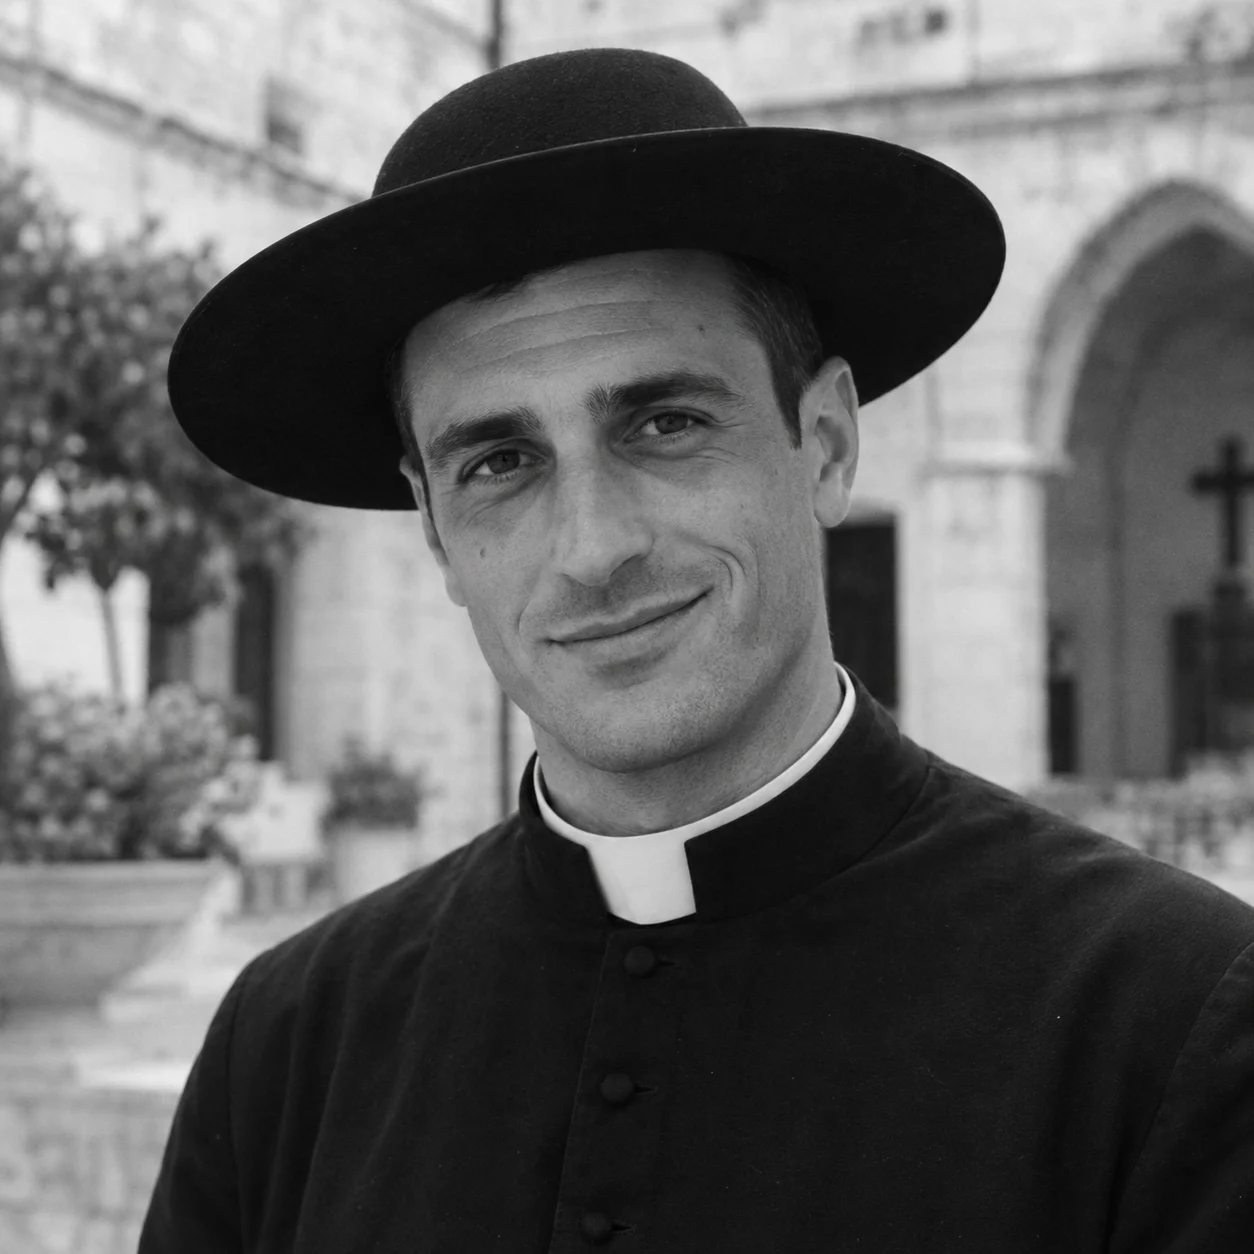
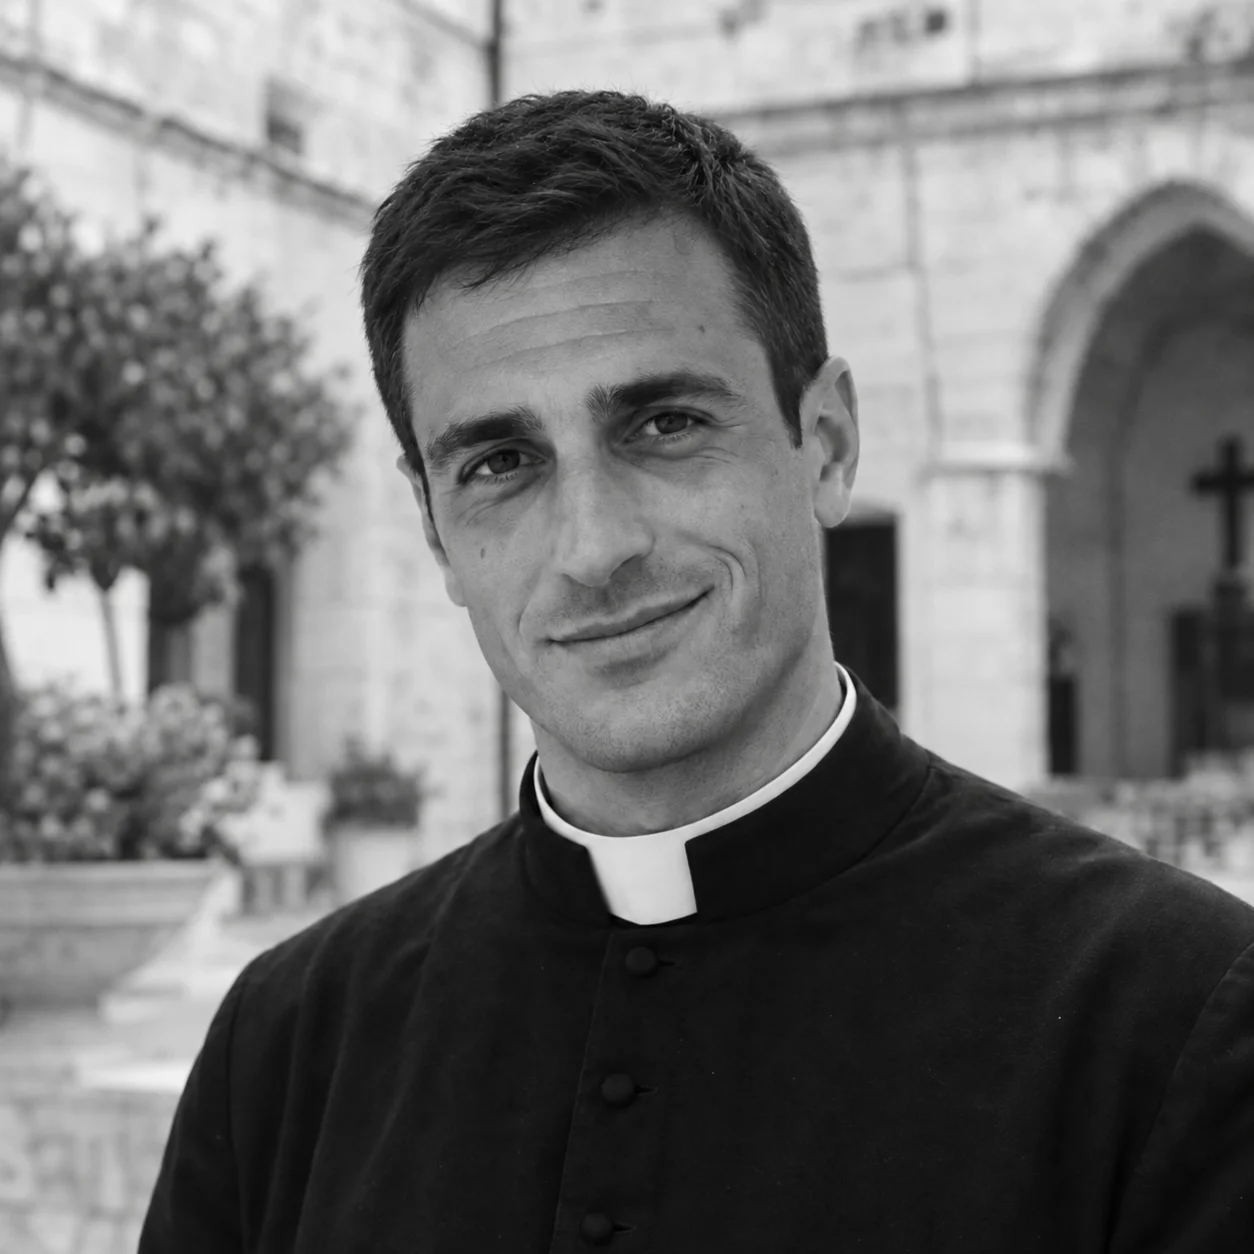
Remove hats and underline only the author link

Changed region(s): [[0.1244, 0.0311, 0.8086, 0.4354], [0.6531, 0.5287, 0.6842, 0.5909]]

diff --git a/public/index.html b/public/index.html
@@ -20,6 +20,6 @@
     <img id="portrait" width="1254" height="1254" alt="An AI-generated portrait of a fictional adult priest" fetchpriority="high">
     <noscript><img class="fallback" src="/portraits/01.webp" width="1254" height="1254" alt="An AI-generated portrait of a fictional adult priest"></noscript>
   </main>
-  <a class="credit" href="https://matloka.com">this priest was brought to you by matloka.com</a>
+  <div class="credit">this priest was brought to you by <a href="https://matloka.com">matloka.com</a></div>
 </body>
 </html>

diff --git a/public/style.css b/public/style.css
@@ -37,10 +37,14 @@ main {
   color: #fff;
   opacity: .5;
   font: 12px Arial, Helvetica, sans-serif;
-  text-decoration: none;
 }
 
-.credit:focus-visible {
+.credit a {
+  color: inherit;
+  text-decoration: underline;
+}
+
+.credit a:focus-visible {
   outline: 1px solid currentColor;
   outline-offset: 4px;
 }

diff --git a/docs/prompts/49.md b/docs/prompts/49.md
@@ -1,3 +1,7 @@
 # Portrait 49
 
 Use case: photorealistic-natural. Create one original square black-and-white photographic portrait for thispriestdoesnotexist.com. Subject: one entirely fictional attractive ADULT Catholic priest, age 38, Italian appearance, close-cropped hair, strong nose, clean shaven, slightly lop-sided smile, wearing a traditional flat wide-brimmed black cappello romano; soft stone courtyard. Fully clothed black clerical shirt or cassock with a clearly visible white Roman collar. A distinct individual, not based on any real person. Authentic candid 35mm Roman souvenir priest-calendar photography, natural available daylight, subtle film grain and realistic skin texture, rich blacks and silver midtones. Chest-up composition, face near center with enough headroom, collar visible. Tasteful and quietly charismatic. Include natural facial asymmetry and individual features. Background softly blurred. No text, watermark, frame, collage, calendar layout, extra people, nudity, or glossy advertising look. Output one square photograph.
+
+## Final edit
+
+Removed the hat at the user’s request. Preserved the face, expression, clerical clothing, lighting, background, and square black-and-white film style. Replaced headwear with natural close-cropped dark hair. No headwear of any kind.

diff --git a/docs/prompts/50.md b/docs/prompts/50.md
@@ -1,3 +1,7 @@
 # Portrait 50
 
 Use case: photorealistic-natural. Create one original square black-and-white photographic portrait for thispriestdoesnotexist.com. Subject: one entirely fictional attractive ADULT Catholic priest, age 35, Spanish appearance, curly dark hair, clean-shaven face, warm direct gaze and subtle smile, wearing a traditional flat wide-brimmed black cappello romano; church piazza. Fully clothed black clerical shirt or cassock with a clearly visible white Roman collar. A distinct individual, not based on any real person. Authentic candid 35mm Roman souvenir priest-calendar photography, natural available daylight, subtle film grain and realistic skin texture, rich blacks and silver midtones. Chest-up composition, face near center with enough headroom, collar visible. Tasteful and quietly charismatic. Include natural facial asymmetry and individual features. Background softly blurred. No text, watermark, frame, collage, calendar layout, extra people, nudity, or glossy advertising look. Output one square photograph.
+
+## Final edit
+
+Removed the hat at the user’s request. Preserved the face, expression, clerical clothing, lighting, background, and square black-and-white film style. Replaced headwear with natural short dark curls. No headwear of any kind.
